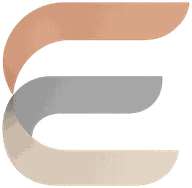
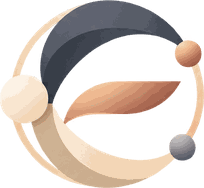
Adopt the new brand marks, and open the share message with a greeting
The new lockup could not be used as delivered, for the same reason as the last set: its
wordmark is flat near-black (#14181E). Measured, not guessed — 15.31:1 on the crema page
and 1.04:1 on the navy one, which is not "hard to read", it is invisible. So two variants
again, recolouring only the wordmark and leaving the symbol's gradients untouched. The
glyphs are flat-coloured, so alpha alone carries the letterforms and swapping RGB
preserves the antialiasing exactly. Now 11.96:1 and 14.35:1.

The split between symbol and wordmark comes from the column profile rather than the eye:
the symbol ends at x=469, the E starts at 529, and everything right of the mid-gap is
recoloured.

The collapsed-rail symbol is cut from the lockup, not from Symbol New.png. The two supplied
files are different renders of the same mark — mean 24/255 across the overlap, worst 109 —
and the sidebar swaps one for the other when you collapse it, so taking both from the
lockup means the mark does not change under your hands. The icons keep Symbol New, where
nothing sits beside them and the extra resolution is worth having.

Icons sit on Deep Navy rather than white: 39% of the mark is near-white, and its cream ring
and white sphere would simply disappear on a light ground.

Everything is palette-quantised, as the previous set was — a 110KB favicon loads on every
page for a 32px render. Mean channel error against the full-colour original is under
[…]

diff --git a/src/lib/deal-pitch.ts b/src/lib/deal-pitch.ts
@@ -19,42 +19,62 @@ export const SHARE_INTRO_MAX = 200
 
 export type DealPitchInput = {
   companyName: string
-  /** What they do, in one line. companies.one_liner. */
+  /** What they do and why it is worth a look. companies.share_intro, or the one-liner. */
   intro?: string | null
+  /** The company's own site. First in the list — nobody starts at a data room. */
+  website?: string | null
   documents: ActiveDealDocument[]
 }
 
 /** WhatsApp reads *asterisks* as bold. Nothing else here relies on its formatting. */
 const bold = (s: string) => `*${s}*`
 
-export function buildDealPitch({ companyName, intro, documents }: DealPitchInput): string {
+export function buildDealPitch({ companyName, intro, website, documents }: DealPitchInput): string {
   // Only what has actually been shared. This message leaves the app — an "Internal" document is
   // withheld from partners, and a WhatsApp forward is at least as exposed as a partner is.
   const shared = documents.filter((d) => d.visible_to_partners)
 
-  // Grouped in the fixed order rather than by date, so the IM is always first and the reader learns
-  // the shape of the message rather than reading it fresh each time.
+  // Grouped in the fixed order rather than by date, so the IM is always first among the documents
+  // and the reader learns the shape of the message rather than reading it fresh each time.
   const ordered = DEAL_DOCUMENT_KINDS.flatMap((kind) => shared.filter((d) => d.kind === kind))
 
-  const lines: string[] = [
-    'Earlyseed Ventures presents this exciting investment opportunity.',
-    '',
-    intro?.trim() ? `${bold(companyName)} — ${intro.trim()}` : bold(companyName),
-  ]
-
-  if (ordered.length > 0) {
-    lines.push('', 'To know more, refer to the material below:')
-    ordered.forEach((doc, i) => {
-      // The label only when it adds something — "1. MIS — MIS" reads like a mistake.
-      const kindLabel = DEAL_DOCUMENT_LABELS[doc.kind]
-      const name = doc.label?.trim() && doc.label.trim().toLowerCase() !== kindLabel.toLowerCase()
-        ? `${kindLabel} (${doc.label.trim()})`
-        : kindLabel
-      lines.push(`${i + 1}. ${name} — ${doc.url}`)
-    })
+  // The website leads: it is where anyone actually starts, and sending someone to a data room
+  // before the company's own homepage is the wrong order.
+  const links: Array<{ name: string; url: string }> = []
+  const site = website?.trim()
+  if (site) links.push({ name: 'Website', url: site })
+  for (const doc of ordered) {
+    const kindLabel = DEAL_DOCUMENT_LABELS[doc.kind]
+    // The label only when it adds something — "MIS — MIS" reads like a mistake.
+    const name = doc.label?.trim() && doc.label.trim().toLowerCase() !== kindLabel.toLowerCase()
+      ? `${kindLabel} (${doc.label.trim()})`
+      : kindLabel
+    links.push({ name, url: doc.url })
   }
 
-  lines.push('', 'Terms & conditions apply. Private equity is a high-risk investment.')
+  const lines: string[] = [
+    'Hello Investor!',
+    '',
+    'Earlyseed Ventures presents this exciting investment opportunity.',
+    '',
+    // Name on its own line rather than run together with the intro: a 200-character introduction
+    // after an em-dash is a wall in a chat window.
+    bold(companyName),
+  ]
+
+  if (intro?.trim()) lines.push(intro.trim())
+
+  if (links.length > 0) {
+    lines.push('', 'To know more, refer to the material below:')
+    links.forEach((l, i) => lines.push(`${i + 1}. ${l.name} — ${l.url}`))
+  }
+
+  lines.push(
+    '',
+    'Happy to walk you through it or set up a call with the founders — just reply here.',
+    '',
+    'Terms & conditions apply. Private equity is a high-risk investment.',
+  )
 
   return lines.join('\n')
 }
@@ -64,7 +84,7 @@ export function whatsappLink(message: string): string {
   return `https://wa.me/?text=${encodeURIComponent(message)}`
 }
 
-/** Whether there is anything worth sending yet. */
+/** Whether there is a link to send, from either source. */
 export function hasShareableDocuments(documents: ActiveDealDocument[]): boolean {
   return documents.some((d) => d.visible_to_partners)
 }

diff --git a/src/lib/wiki.ts b/src/lib/wiki.ts
@@ -489,8 +489,8 @@ export const WIKI: Record<string, WikiSection> = {
       { heading: 'More than one of a kind', body: 'A deal has several MIS months and more than one version of a deck. Add another and label it — "July", "v3" — and they stack under the same heading.',
         snippet: 'MIS                                        + Add another\n  MIS — July      drive.google.com   Shared    ×\n  MIS — June      drive.google.com   Internal  ×' },
       { heading: 'Sharing with partners', body: 'Each link is Shared or Internal on its own, so a deal can hand over its deck and hold back one MIS month. New links are Shared by default — these five were opened to partners deliberately.' },
-      { heading: 'Share on WhatsApp', body: 'Builds the message from the deal itself — the company\'s one-liner and every link marked Shared, numbered in the fixed order. Available on the deal card as well as here, because sending a deal on is what people leave this page to do.',
-        snippet: 'Earlyseed Ventures presents this exciting investment opportunity.\n\n*ElectriQ* — India\'s fastest-scaling clean-label food brand\n\nTo know more, refer to the material below:\n1. Information Memorandum — https://…\n2. Financials — https://…\n\nTerms & conditions apply. Private equity is a high-risk investment.' },
+      { heading: 'Share on WhatsApp', body: 'Builds the message from the deal itself — the company\'s introduction, its website, and every document marked Shared, numbered in a fixed order with the website first. Available on the deal card as well as here, because sending a deal on is what people leave this page to do.',
+        snippet: 'Hello Investor!\n\nEarlyseed Ventures presents this exciting investment opportunity.\n\n*ElectriQ*\nIndia\'s fastest-scaling clean-label food brand\n\nTo know more, refer to the material below:\n1. Website — https://…\n2. Information Memorandum — https://…\n\nTerms & conditions apply. Private equity is a high-risk investment.' },
       { heading: 'What the message carries', body: 'Only documents marked Shared. The message leaves the app, and an Internal document is one we withhold from partners — a WhatsApp forward is at least as exposed as a partner is. You see the exact text before it goes.' },
       { heading: 'Who can add', body: 'Founders, admins and associates. Associates work the deals, and making them ask someone else to paste a link is how links stay in WhatsApp. Partners read only.' },
     ],

diff --git a/src/lib/active-deals.ts b/src/lib/active-deals.ts
@@ -8,7 +8,7 @@ type DealCategoryRow = Omit<DealCategory, 'fields'> & { fields?: DealCategoryFie
 type UserNameRow = { name: string | null; photo_url: string | null }
 type EntryAssigneeRow = { user_id: string; user?: UserNameRow | UserNameRow[] | null }
 type PartnerRow = { id: string; name: string }
-type CompanyRefRow = { id: string; name: string; logo_url: string | null; one_liner: string | null; share_intro: string | null }
+type CompanyRefRow = { id: string; name: string; logo_url: string | null; one_liner: string | null; share_intro: string | null; website: string | null }
 type EntryRow = {
   title: string | null
   submitter_name: string | null
@@ -68,7 +68,7 @@ const ACTIVE_DEAL_SELECT = `
   deal_state,
   logo_url,
   visible_to_partners,
-  entry:pipeline_entries(title, submitter_name, submitter_email, submitted_at, pipeline_id, company_id, company:companies!company_id(id, name, logo_url, one_liner, share_intro), assignees:pipeline_entry_assignees(user_id, user:users(name, photo_url)), form_link:form_links!form_link_id(creator:users!created_by(franchise_partner:franchise_partners!franchise_partner_id(id, name)))),
+  entry:pipeline_entries(title, submitter_name, submitter_email, submitted_at, pipeline_id, company_id, company:companies!company_id(id, name, logo_url, one_liner, share_intro, website), assignees:pipeline_entry_assignees(user_id, user:users(name, photo_url)), form_link:form_links!form_link_id(creator:users!created_by(franchise_partner:franchise_partners!franchise_partner_id(id, name)))),
   categories:active_deal_categories(
     category:deal_categories(
       id, name, description, color, created_at,
@@ -101,7 +101,7 @@ function shapeActiveDealRow(row: ActiveDealRow): ActiveDeal {
       submitted_at: entry?.submitted_at ?? row.created_at,
       pipeline_id: entry?.pipeline_id ?? '',
       company_id: entry?.company_id ?? null,
-      company: company ? { id: company.id, name: company.name, logo_url: company.logo_url ?? null, one_liner: company.one_liner ?? null, share_intro: company.share_intro ?? null } : null,
+      company: company ? { id: company.id, name: company.name, logo_url: company.logo_url ?? null, one_liner: company.one_liner ?? null, share_intro: company.share_intro ?? null, website: company.website ?? null } : null,
       assignees: (entry?.assignees ?? []).map((a) => {
         const user = first(a.user)
         return { user_id: a.user_id, name: user?.name ?? 'Unknown', photo_url: user?.photo_url ?? null }

diff --git a/src/app/_components/AppShell.tsx b/src/app/_components/AppShell.tsx
@@ -580,14 +580,14 @@ export default function AppShell({
               {sidebarCollapsed ? (
                 /* The rail is ~64px — the full lockup cannot fit, so the symbol stands in. It
                    carries no text, so it needs no per-theme variant. */
-                <img className={styles.brandSymbol} src="/brand/ecosystem-symbol.png" alt="Ecosystem" width={28} height={27} />
+                <img className={styles.brandSymbol} src="/brand/ecosystem-symbol.png" alt="Ecosystem" width={28} height={26} />
               ) : (
                 <>
                   {/* Two files rather than one swapped in JS: the theme is applied to <html> by a
                       beforeInteractive script, so CSS can switch these with no flash and no
                       hydration mismatch. Both are under 10KB. */}
-                  <img className={styles.brandLogoLight} src="/brand/ecosystem-logo.png" alt="Ecosystem" width={180} height={45} />
-                  <img className={styles.brandLogoDark} src="/brand/ecosystem-logo-dark.png" alt="" aria-hidden="true" width={180} height={45} />
+                  <img className={styles.brandLogoLight} src="/brand/ecosystem-logo.png" alt="Ecosystem" width={180} height={47} />
+                  <img className={styles.brandLogoDark} src="/brand/ecosystem-logo-dark.png" alt="" aria-hidden="true" width={180} height={47} />
                 </>
               )}
             </Link>
@@ -883,8 +883,8 @@ export default function AppShell({
             </svg>
           </button>
           <div className={styles.topbarBrand}>
-            <img className={styles.brandLogoLight} src="/brand/ecosystem-logo.png" alt="Ecosystem" width={152} height={38} />
-            <img className={styles.brandLogoDark} src="/brand/ecosystem-logo-dark.png" alt="" aria-hidden="true" width={152} height={38} />
+            <img className={styles.brandLogoLight} src="/brand/ecosystem-logo.png" alt="Ecosystem" width={152} height={40} />
+            <img className={styles.brandLogoDark} src="/brand/ecosystem-logo-dark.png" alt="" aria-hidden="true" width={152} height={40} />
           </div>
           {canHaveTasks && (
             <div className={styles.alertsWrap}>

diff --git a/src/app/(app)/active-deals/_components/SharePitch.tsx b/src/app/(app)/active-deals/_components/SharePitch.tsx
@@ -20,10 +20,12 @@ import styles from '../active-deals.module.css'
  * sending it blind is how a wrong link gets forwarded to forty people.
  */
 export default function SharePitch({
-  companyName, intro, documents, compact = false, companyId, canEditIntro = false,
+  companyName, intro, website, documents, compact = false, companyId, canEditIntro = false,
 }: {
   companyName: string
   intro?: string | null
+  /** The company's own site. Leads the list of material. */
+  website?: string | null
   documents: ActiveDealDocument[]
   /** On a card, where there is room for an icon and not much else. */
   compact?: boolean
@@ -40,7 +42,7 @@ export default function SharePitch({
   const [editing, setEditing] = useState(false)
   const [saving, startSave] = useTransition()
 
-  const message = buildDealPitch({ companyName, intro: editing ? draft : intro, documents })
+  const message = buildDealPitch({ companyName, intro: editing ? draft : intro, website, documents })
   const shareable = hasShareableDocuments(documents)
 
   async function copy() {

diff --git a/src/app/(app)/active-deals/_components/DealDocuments.tsx b/src/app/(app)/active-deals/_components/DealDocuments.tsx
@@ -24,7 +24,7 @@ import styles from '../active-deals.module.css'
  * row called Deck instead of scanning a feed.
  */
 export default function DealDocuments({
-  dealId, documents, canEdit, isPartner, companyName, intro, canShare, companyId, canEditIntro,
+  dealId, documents, canEdit, isPartner, companyName, intro, website, canShare, companyId, canEditIntro,
 }: {
   dealId: string
   documents: ActiveDealDocument[]
@@ -32,6 +32,7 @@ export default function DealDocuments({
   isPartner: boolean
   companyName: string
   intro?: string | null
+  website?: string | null
   canShare: boolean
   companyId?: string | null
   canEditIntro?: boolean
@@ -80,6 +81,7 @@ export default function DealDocuments({
             <SharePitch
               companyName={companyName}
               intro={intro}
+              website={website}
               documents={documents}
               companyId={companyId}
               canEditIntro={canEditIntro}

diff --git a/src/lib/types.ts b/src/lib/types.ts
@@ -857,6 +857,8 @@ export type PartnerDealSummary = {
    * Resolved in the database so a partner and an associate never see different introductions.
    */
   company_share_intro: string | null
+  /** The company's own site — the first link in the share message. */
+  company_website: string | null
   committed_total: number
   commitment_count: number
   assignees: Array<{
@@ -965,7 +967,7 @@ export type ActiveDeal = {
     submitted_at: string
     pipeline_id: string
     company_id?: string | null
-    company?: { id: string; name: string; logo_url: string | null; one_liner?: string | null; share_intro?: string | null } | null
+    company?: { id: string; name: string; logo_url: string | null; one_liner?: string | null; share_intro?: string | null; website?: string | null } | null
     assignees?: Array<{ user_id: string; name: string; photo_url: string | null }>
     sourced_via_partner?: { id: string; name: string } | null
   }

diff --git a/src/app/login/page.tsx b/src/app/login/page.tsx
@@ -108,8 +108,8 @@ function LoginContent() {
         <div className={styles.logoBlock}>
           {/* The lockup already carries the wordmark and tagline, so the separate text would
               repeat them. Both theme variants ship; CSS picks one. */}
-          <img className={styles.brandLogoLight} src="/brand/ecosystem-logo.png" alt="Ecosystem" width={260} height={65} />
-          <img className={styles.brandLogoDark} src="/brand/ecosystem-logo-dark.png" alt="" aria-hidden="true" width={260} height={65} />
+          <img className={styles.brandLogoLight} src="/brand/ecosystem-logo.png" alt="Ecosystem" width={260} height={68} />
+          <img className={styles.brandLogoDark} src="/brand/ecosystem-logo-dark.png" alt="" aria-hidden="true" width={260} height={68} />
           <span className={styles.tagline}>by Earlyseed Ventures</span>
         </div>
 

diff --git a/src/app/(app)/active-deals/_components/ActiveDealsList.tsx b/src/app/(app)/active-deals/_components/ActiveDealsList.tsx
@@ -262,6 +262,7 @@ export default function ActiveDealsList({
                           ?? deal.entry?.company?.one_liner
                           ?? summary?.company_share_intro
                           ?? null}
+                        website={deal.entry?.company?.website ?? summary?.company_website ?? null}
                         documents={documentsByDeal[deal.id] ?? []}
                         companyId={deal.entry?.company_id ?? null}
                         canEditIntro={canEditIntro}

diff --git a/src/app/(app)/active-deals/_components/ActiveDealPageClient.tsx b/src/app/(app)/active-deals/_components/ActiveDealPageClient.tsx
@@ -583,6 +583,7 @@ export default function ActiveDealPageClient({
             ?? deal.entry?.company?.one_liner
             ?? partnerSummary?.company_share_intro
             ?? null}
+          website={deal.entry?.company?.website ?? partnerSummary?.company_website ?? null}
           companyId={deal.entry?.company_id ?? null}
           canEditIntro={['founder', 'admin', 'associate'].includes(userRole)}
           canShare={userRole !== 'general'}
